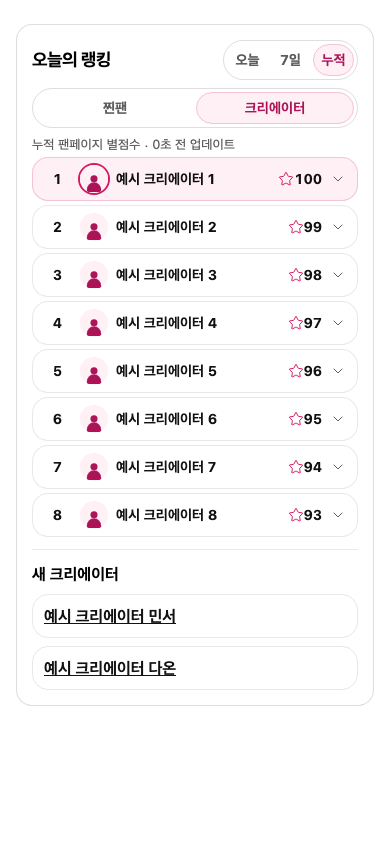
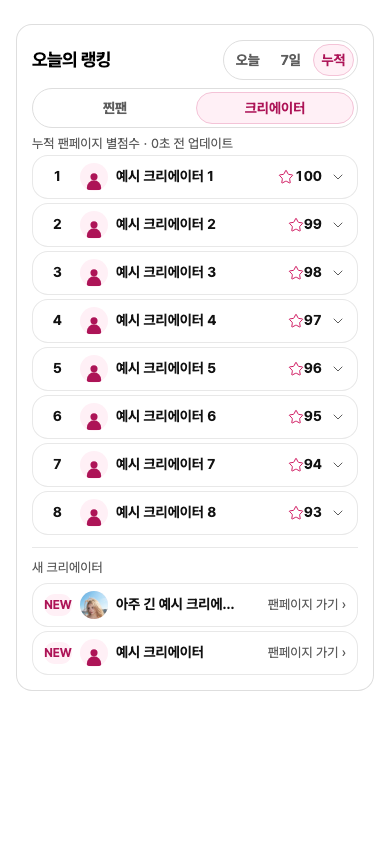
Align new creator links with home ranking rows

diff --git a/apps/web/features/rankings/ui/ranking-board.tsx b/apps/web/features/rankings/ui/ranking-board.tsx
@@ -5,16 +5,15 @@ import { useRef, useState, type ReactNode } from "react";
 import { CreatorAvatar } from "@/components/fan-ui/creator-avatar";
 import { HOME_CREATOR_SLOTS } from "../domain/new-creators";
 import { creatorHomeHref } from "@/features/creator/domain/creator-navigation";
-import Link from "@/components/fan-ui/hover-prefetch-link";
+import { FanTag } from "@/components/fan-ui/fan-tag";
 import { FanText } from "@/components/fan-ui/fan-text";
+import row from "./ranking-rows.module.css";
 import { FanHeading } from "@/components/fan-ui/fan-heading";
 import { useByUsAuth } from "@/features/auth/client/cognito-auth";
-import { Avatar } from "@/features/profile/ui/avatar";
 import type { AppLocale } from "@/i18n/locales";
 import { homeCreatorRankingSchema, homeFanRankingSchema, type HomeRankingPeriod } from "../domain/types";
 import { FanTabs } from "@/components/fan-ui/fan-tabs";
-import { fanAvatar } from "./rankings-content";
-import { CreatorRows, EmptyRows, FailedRows, FanRows, Foot, LoadingRows, MetricLine, MyRank, rankingUrl, useLiveRanking, type Live } from "./ranking-rows";
+import { RowFace, CreatorRows, EmptyRows, FailedRows, FanRows, Foot, LoadingRows, MetricLine, MyRank, rankingUrl, useLiveRanking, type Live } from "./ranking-rows";
 import { rankingsText } from "./rankings-copy";
 import styles from "./ranking-board.module.css";
 
@@ -92,10 +91,17 @@ function CreatorPanel({ locale, guest, scope, period, includeNewCreators }: { in
       )}
       {introductions.length > 0 && (
         <section className={styles.introductions} aria-labelledby={`${scope}-new-creators`}>
-          <h4 id={`${scope}-new-creators`}><FanText role="item">{rankingsText(locale, "rkNewCreators")}</FanText></h4>
-          <ul>
-            {introductions.map(({ slug, name }) => (
-              <li key={slug} data-row="new-creator"><Link href={creatorHomeHref(slug, locale)}><FanText role="item" title={name}>{name}</FanText></Link></li>
+          <h4 className={row.caption} id={`${scope}-new-creators`}>{rankingsText(locale, "rkNewCreators")}</h4>
+          <ul className={row.rows}>
+            {introductions.map(({ slug, name, imageUrl }) => (
+              <li key={slug} className={row.item} data-row="new-creator">
+                <RowFace href={creatorHomeHref(slug, locale)}>
+                  <FanTag tone="fan" className={styles.newBadge}>NEW</FanTag>
+                  <CreatorAvatar slug={slug} size={28} src={imageUrl} photos={{ profile: null }} />
+                  <span className={row.name} title={name}>{name}</span>
+                  <FanText role="meta" className={styles.destination}>{rankingsText(locale, "rkGoFanpage")} ›</FanText>
+                </RowFace>
+              </li>
             ))}
           </ul>
         </section>

diff --git a/apps/web/features/rankings/ui/ranking-rows.tsx b/apps/web/features/rankings/ui/ranking-rows.tsx
@@ -6,6 +6,7 @@ import { useEffect, useLayoutEffect, useRef, useState, type ReactNode } from "re
 import { ChevronDown, ChevronUp, Heart } from "@/components/fan-ui/fan-icons";
 import { FanIcon } from "@/components/fan-ui/fan-icon";
 import { ProfileModal, type ProfileModalPerson } from "@/features/group-social/profile-modal";
+import Link from "@/components/fan-ui/hover-prefetch-link";
 import { CreatorAvatar } from "@/components/fan-ui/creator-avatar";
 import { FanAction } from "@/components/fan-ui/fan-action";
 import { RollingNumber } from "@/components/fan-ui/rolling-number";
@@ -347,7 +348,14 @@ const gapToFirst = (first: boolean, value: number, top: number) => first ? null 
 function RowToggle({ label, panelId, open, onToggle }: { label: string; panelId: string; open: boolean; onToggle: () => void }) {
   return <FanAction variant="text" className={styles.toggle} ariaLabel={label} aria-expanded={open} aria-controls={open ? panelId : undefined} onClick={onToggle} />;
 }
-function RowFace({ open, me, kind, children }: { open: boolean; me?: boolean; kind: RankingsTab; children: ReactNode }) {
+type RowFaceProps = { children: ReactNode } & (
+  | { href: string }
+  | { open: boolean; me?: boolean; kind: RankingsTab }
+);
+
+export function RowFace(props: RowFaceProps) {
+  if ("href" in props) return <Link className={styles.rowFace} href={props.href}>{props.children}</Link>;
+  const { open, me, kind, children } = props;
   return <span className={styles.rowFace} data-kind={kind} data-me={me || undefined}>
     {children}
     <FanIcon icon={open ? ChevronUp : ChevronDown} size={16} className={styles.chevron} />

diff --git a/apps/web/features/rankings/ui/ranking-rows.module.css b/apps/web/features/rankings/ui/ranking-rows.module.css
@@ -29,7 +29,7 @@
 /* 아바타·이름 링크(크리에이터 → 팬페이지, 팬 → 프로필, 비로그인 포함): 행 모양은 그대로 두고 이름 글자만 강조 글자색+밑줄로 바뀐다. 포커스 링은 아바타·이름을 감싼다(PM 11/13). */
 @media (hover: hover) and (pointer: fine) { .item a.profile:hover .name, .item button.profile:hover .name { color: var(--color-accent-ink); text-decoration: underline; } }
 .item .profile .name { transition: color var(--motion-fast) var(--motion-easing); }
-.item .profile:focus-visible { outline: var(--focus-width) solid var(--color-ink); outline-offset: var(--focus-offset); border-radius: var(--radius-small); }
+.item a.rowFace:focus-visible, .item .profile:focus-visible { outline: var(--focus-width) solid var(--color-ink); outline-offset: var(--focus-offset); border-radius: var(--radius-small); }
 .item .profile:focus-visible .name { color: var(--color-accent-ink); }
 @media (prefers-reduced-motion: reduce) { .item .profile .name { transition: none; } }
 .rowFace { position: relative; display: grid; grid-template-columns: 28px 28px minmax(0, 1fr) minmax(var(--rank-value-col), max-content) 16px; align-items: center; column-gap: var(--space-2); flex: 1 1 auto; box-sizing: border-box; width: 100%; min-width: 0; height: var(--rank-row-height, 48px); padding: 0 var(--space-3); text-align: start; text-wrap: wrap; }

diff --git a/apps/web/features/rankings/ui/ranking-board.module.css b/apps/web/features/rankings/ui/ranking-board.module.css
@@ -34,21 +34,6 @@
   padding-block-start: var(--space-3);
   border-block-start: 1px solid var(--color-line-subtle);
 }
-.introductions h4 { margin: 0; }
-.introductions ul { display: grid; gap: var(--space-2); list-style: none; margin: 0; padding: 0; }
-.introductions li { min-width: 0; }
-.introductions a {
-  display: flex;
-  align-items: center;
-  min-height: 44px;
-  box-sizing: border-box;
-  padding-inline: var(--space-3);
-  border-radius: var(--radius-card);
-  background: var(--color-surface);
-  outline: 1px solid var(--color-line-subtle);
-  outline-offset: -1px;
-  color: var(--color-ink);
-}
-.introductions a:focus-visible { outline: 2px solid var(--color-accent); outline-offset: -2px; }
-.introductions a:hover { text-decoration: underline; }
-.introductions a span { overflow: hidden; text-overflow: ellipsis; white-space: nowrap; }
+.introductions a { color: var(--color-ink); text-decoration: none; border-radius: inherit; }
+.introductions .newBadge { justify-content: center; padding-inline: 0; }
+.destination { grid-column: 4 / 6; justify-self: end; color: var(--color-muted); }

diff --git a/apps/web/features/rankings/domain/types.ts b/apps/web/features/rankings/domain/types.ts
@@ -162,7 +162,7 @@ export const homeCreatorRankingRowSchema = z.object({
   /** Passports issued, stamps issued all time and 찐팬 인증 (approved proofs) for the creator (대표 11/26 22:17). Absent from an older server. */
   stats: z.object({ passports: count, stamps: count, proofs: count }).optional(),
 });
-export const newCreatorSchema = z.object({ slug: z.string(), name: z.string().min(1) });
+export const newCreatorSchema = z.object({ imageUrl: z.string().nullish(), slug: z.string(), name: z.string().min(1) });
 export const homeCreatorRankingSchema = z.object({
   ...homeHead,
   newCreators: z.array(newCreatorSchema).max(2).optional(),
